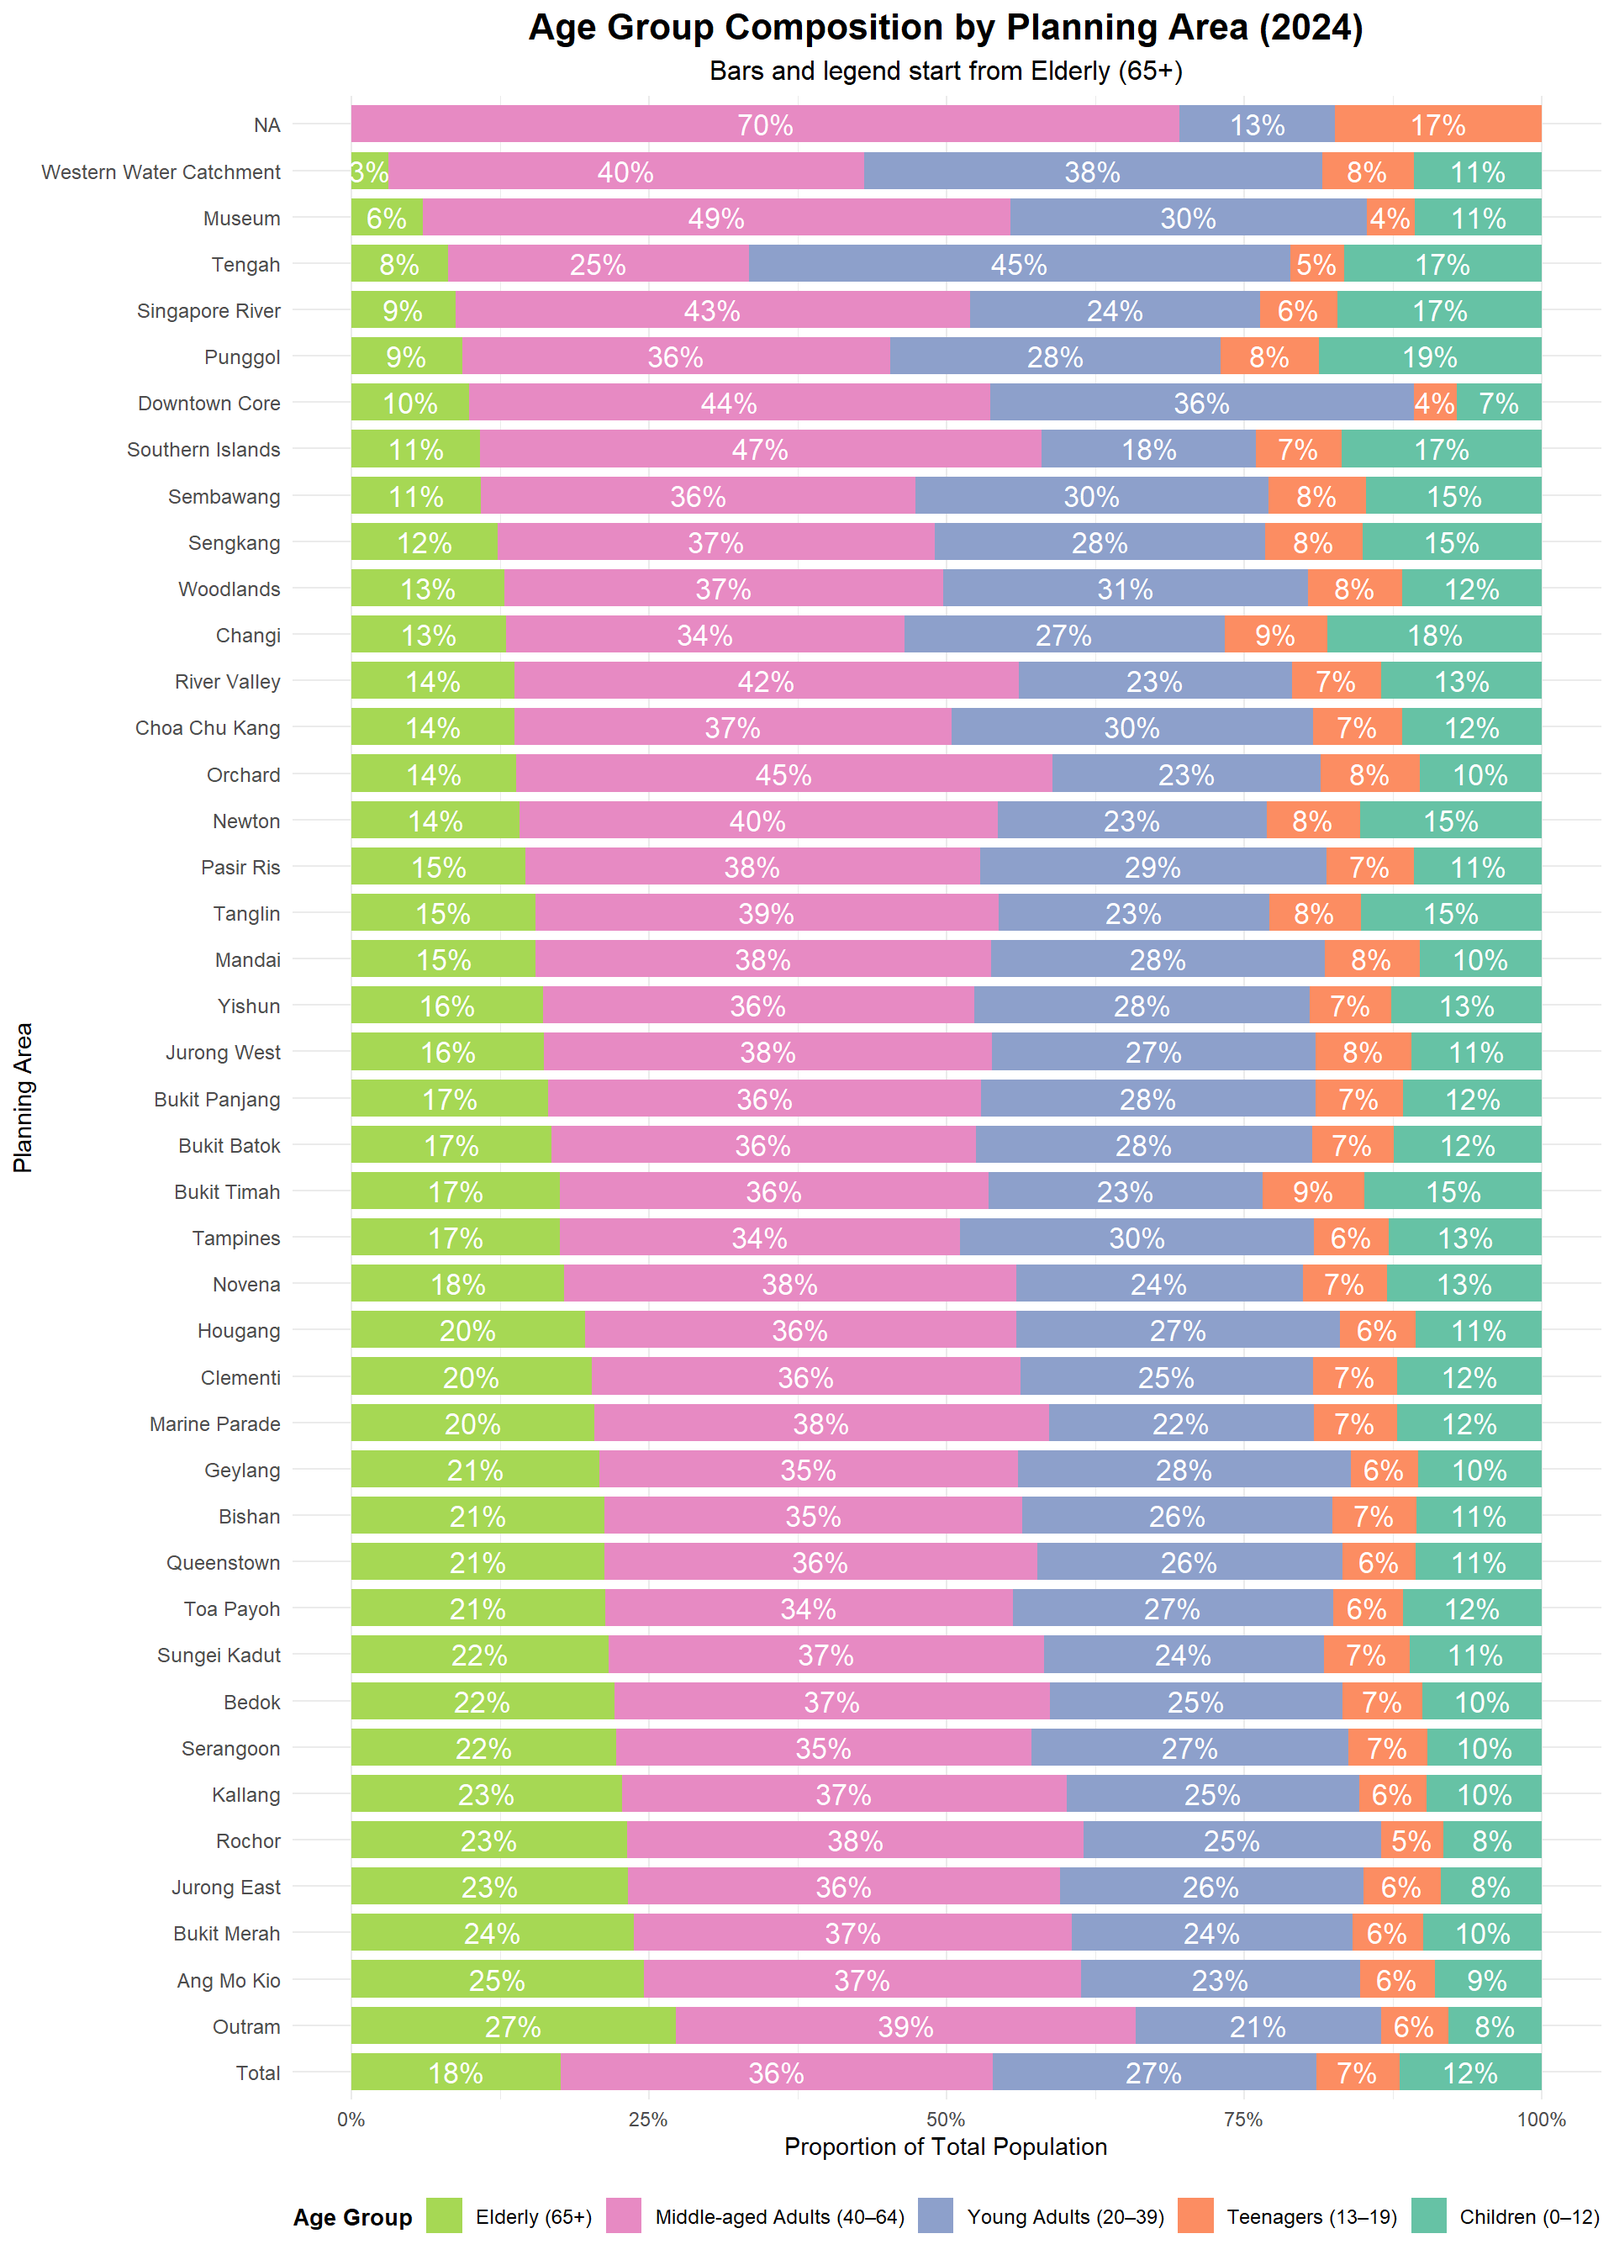
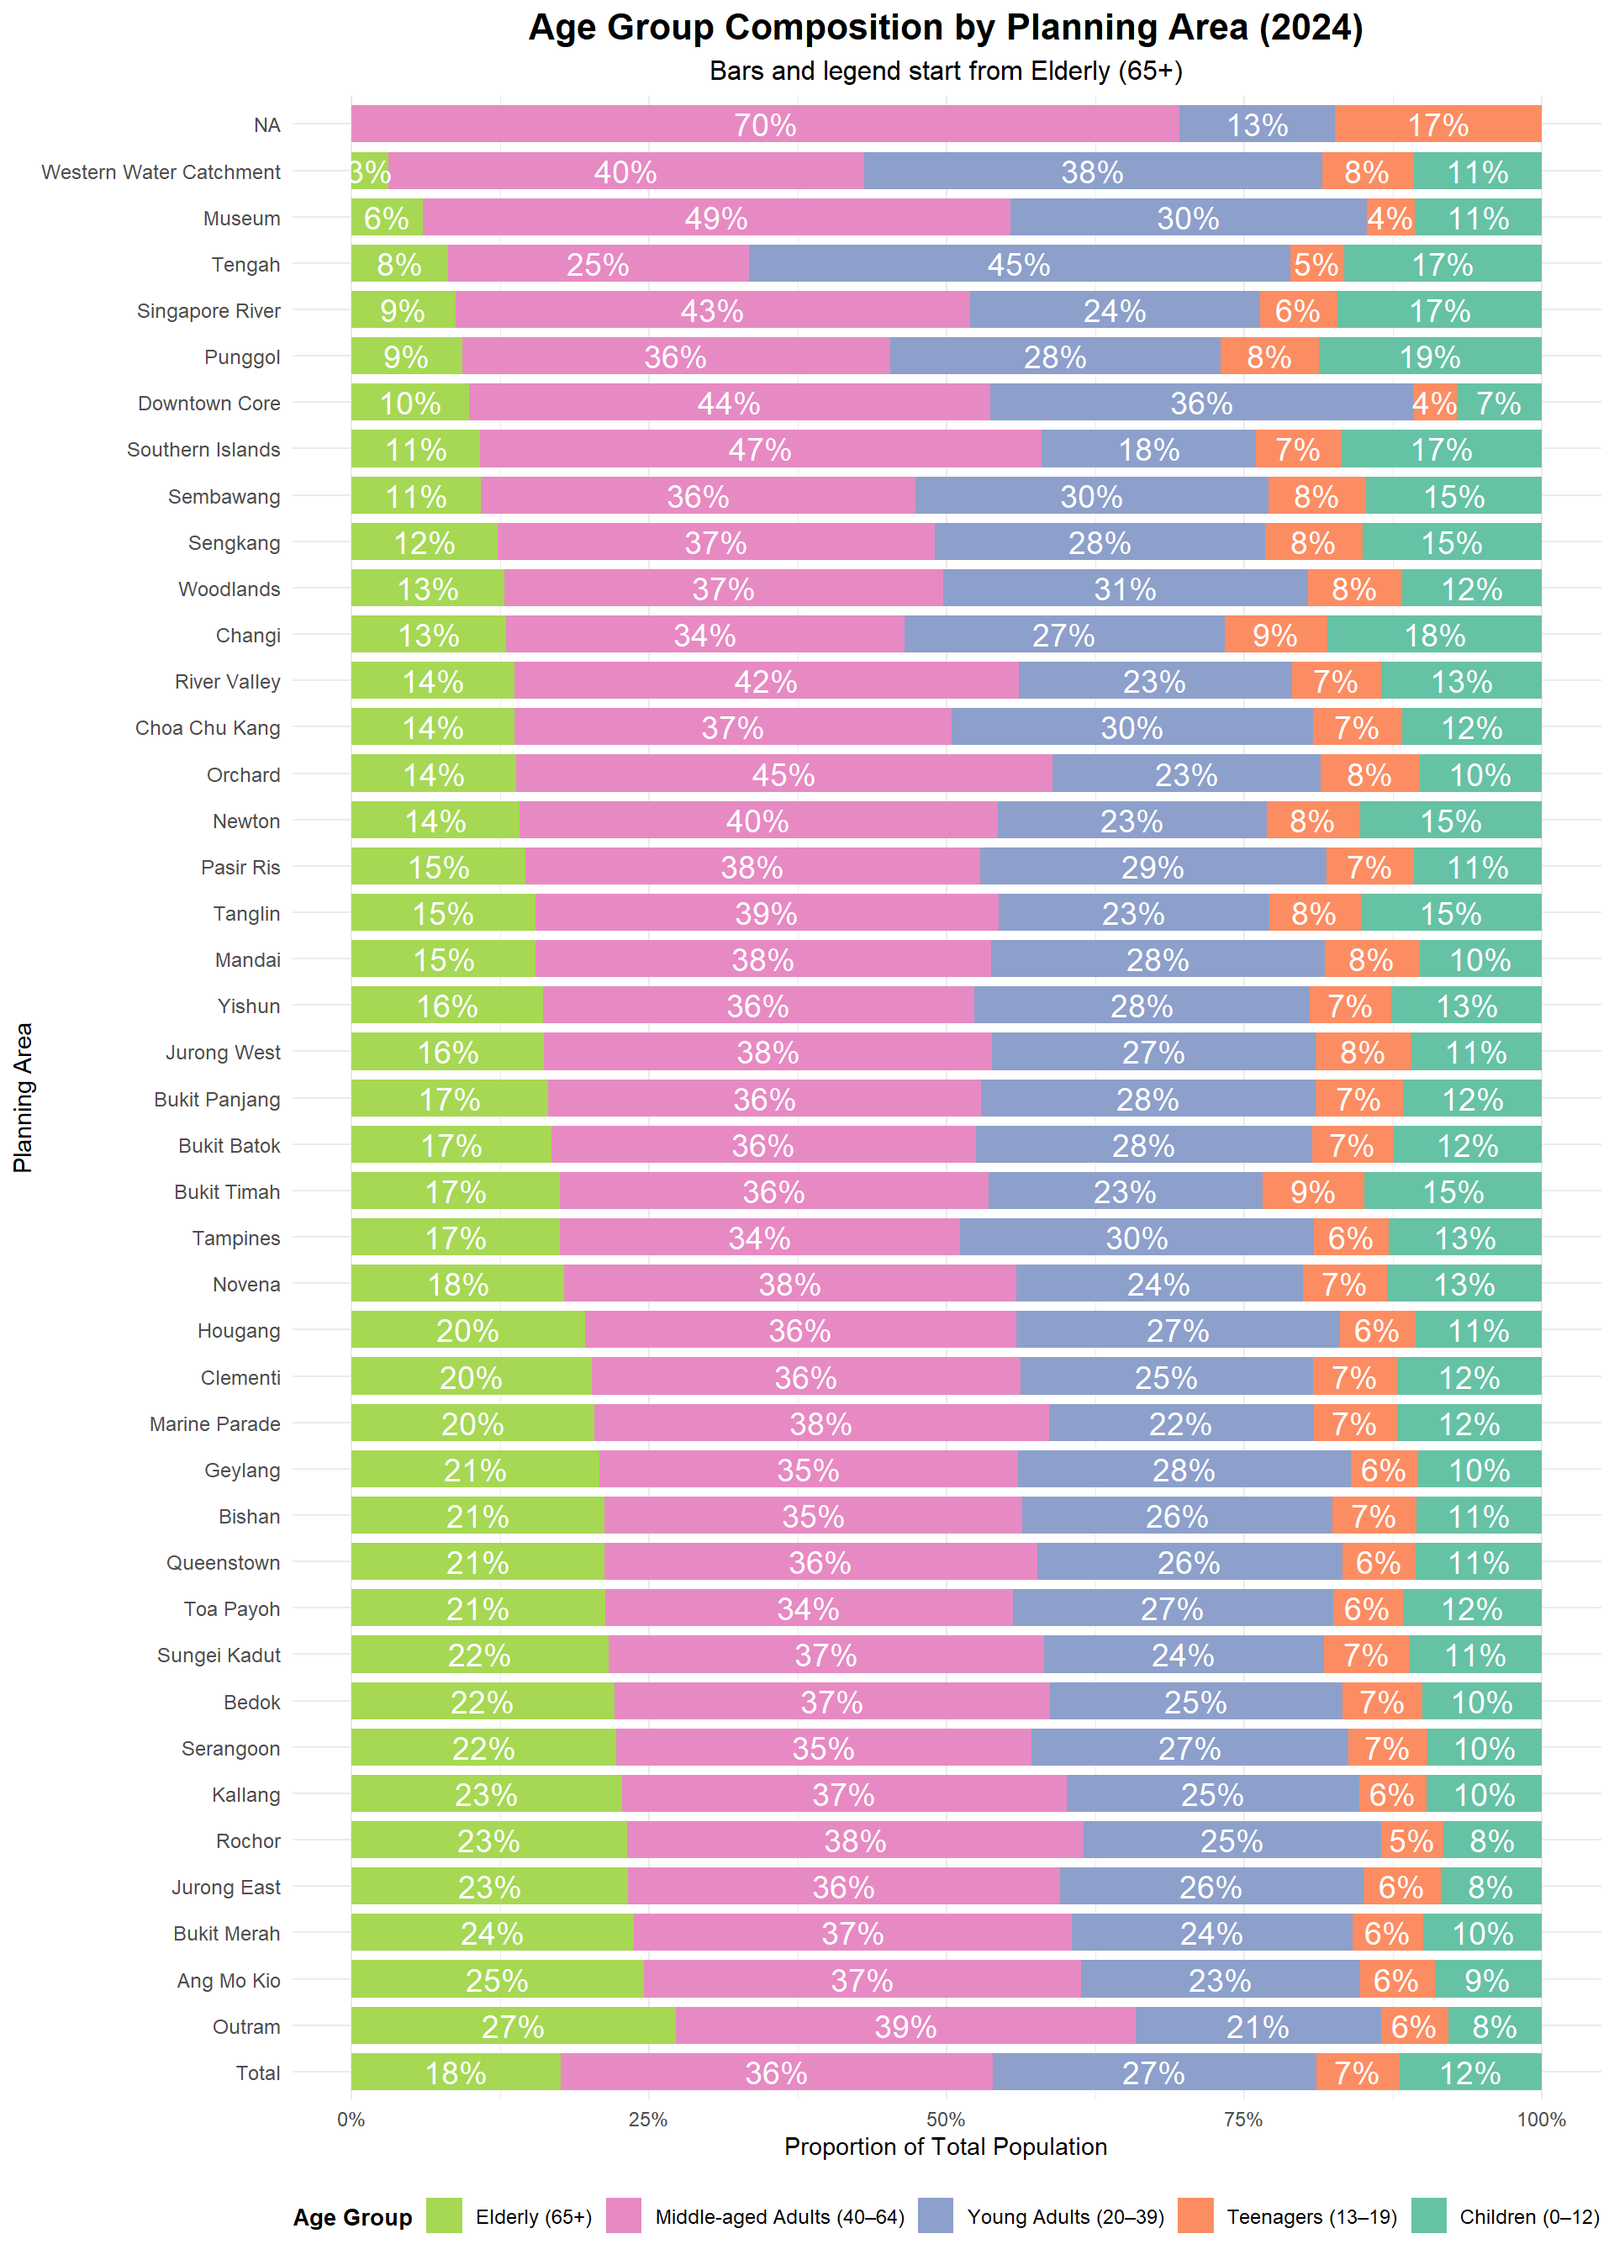
commit font size

diff --git a/_site/Take-Home_Ex/Take-Home_Ex01/Take-Home_Ex01.html b/_site/Take-Home_Ex/Take-Home_Ex01/Take-Home_Ex01.html
@@ -538,7 +538,7 @@ Compared to the total population, the <strong>elderly population values are clos
 <span id="cb5-47"><a href="#cb5-47" aria-hidden="true" tabindex="-1"></a>  <span class="fu">geom_col</span>(<span class="at">width =</span> <span class="fl">0.8</span>) <span class="sc">+</span></span>
 <span id="cb5-48"><a href="#cb5-48" aria-hidden="true" tabindex="-1"></a>  <span class="fu">geom_text</span>(<span class="fu">aes</span>(<span class="at">label =</span> scales<span class="sc">::</span><span class="fu">percent</span>(Share, <span class="at">accuracy =</span> <span class="dv">1</span>)),</span>
 <span id="cb5-49"><a href="#cb5-49" aria-hidden="true" tabindex="-1"></a>            <span class="at">position =</span> <span class="fu">position_stack</span>(<span class="at">vjust =</span> <span class="fl">0.5</span>),</span>
-<span id="cb5-50"><a href="#cb5-50" aria-hidden="true" tabindex="-1"></a>            <span class="at">size =</span> <span class="fl">4.5</span>, <span class="at">color =</span> <span class="st">"white"</span>) <span class="sc">+</span></span>
+<span id="cb5-50"><a href="#cb5-50" aria-hidden="true" tabindex="-1"></a>            <span class="at">size =</span> <span class="dv">5</span>, <span class="at">color =</span> <span class="st">"white"</span>) <span class="sc">+</span></span>
 <span id="cb5-51"><a href="#cb5-51" aria-hidden="true" tabindex="-1"></a>  <span class="fu">scale_y_continuous</span>(<span class="at">labels =</span> <span class="fu">percent_format</span>(<span class="at">accuracy =</span> <span class="dv">1</span>)) <span class="sc">+</span></span>
 <span id="cb5-52"><a href="#cb5-52" aria-hidden="true" tabindex="-1"></a>  <span class="fu">scale_fill_manual</span>(</span>
 <span id="cb5-53"><a href="#cb5-53" aria-hidden="true" tabindex="-1"></a>    <span class="at">values =</span> age_colors,</span>
